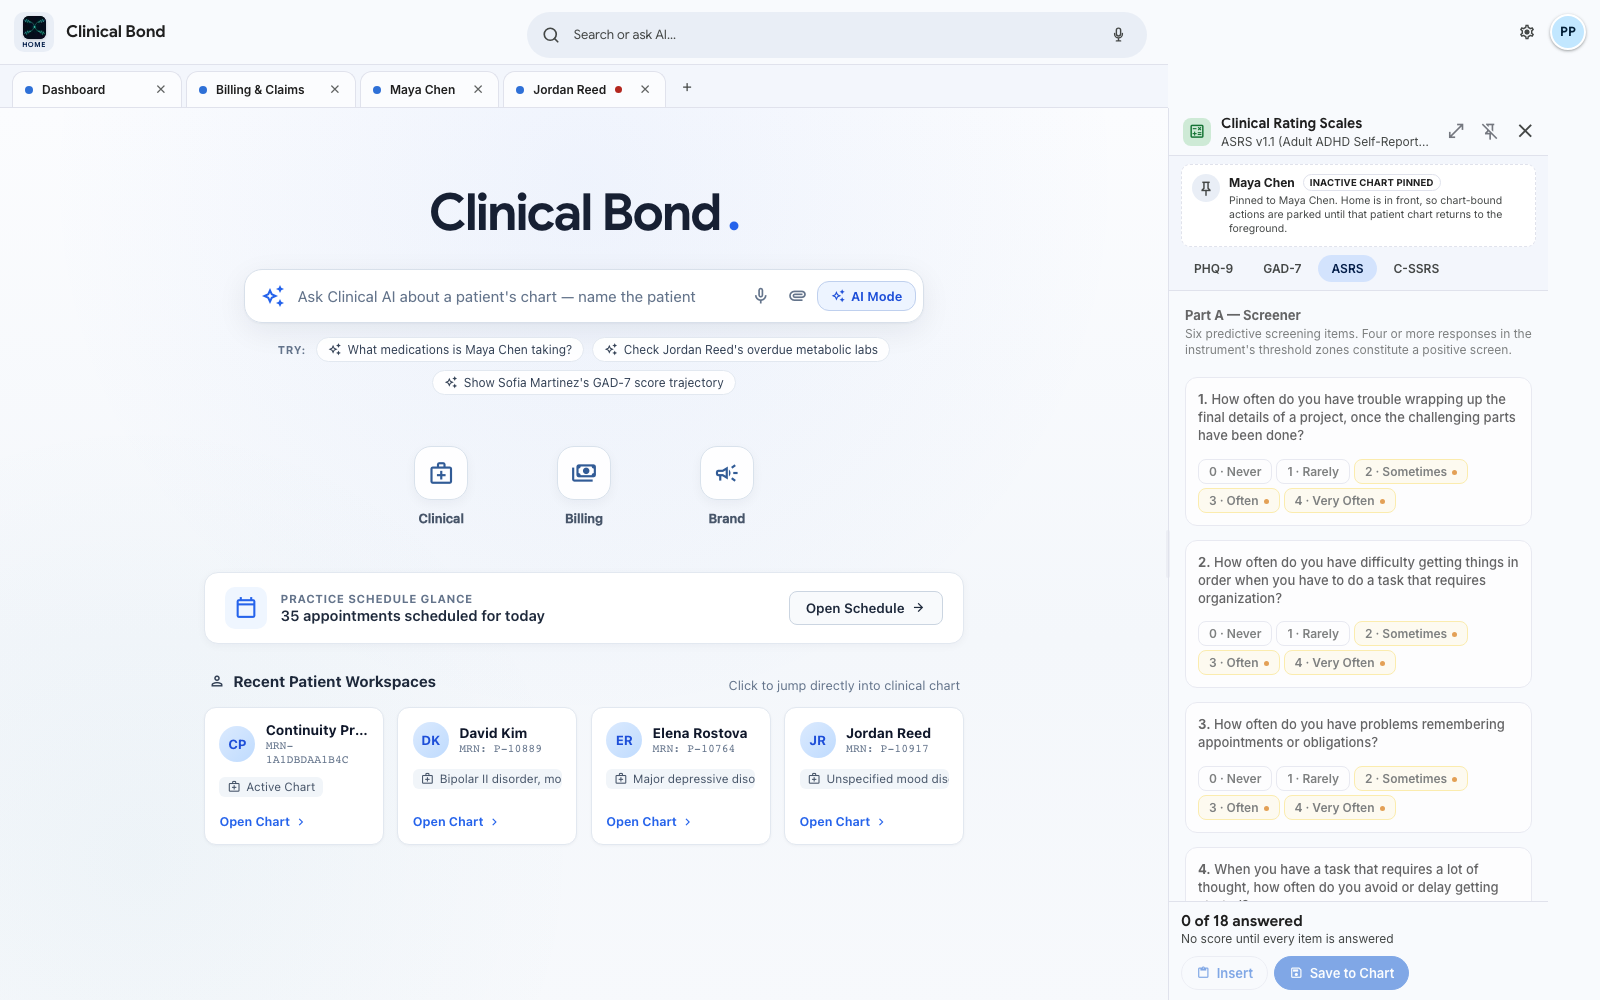
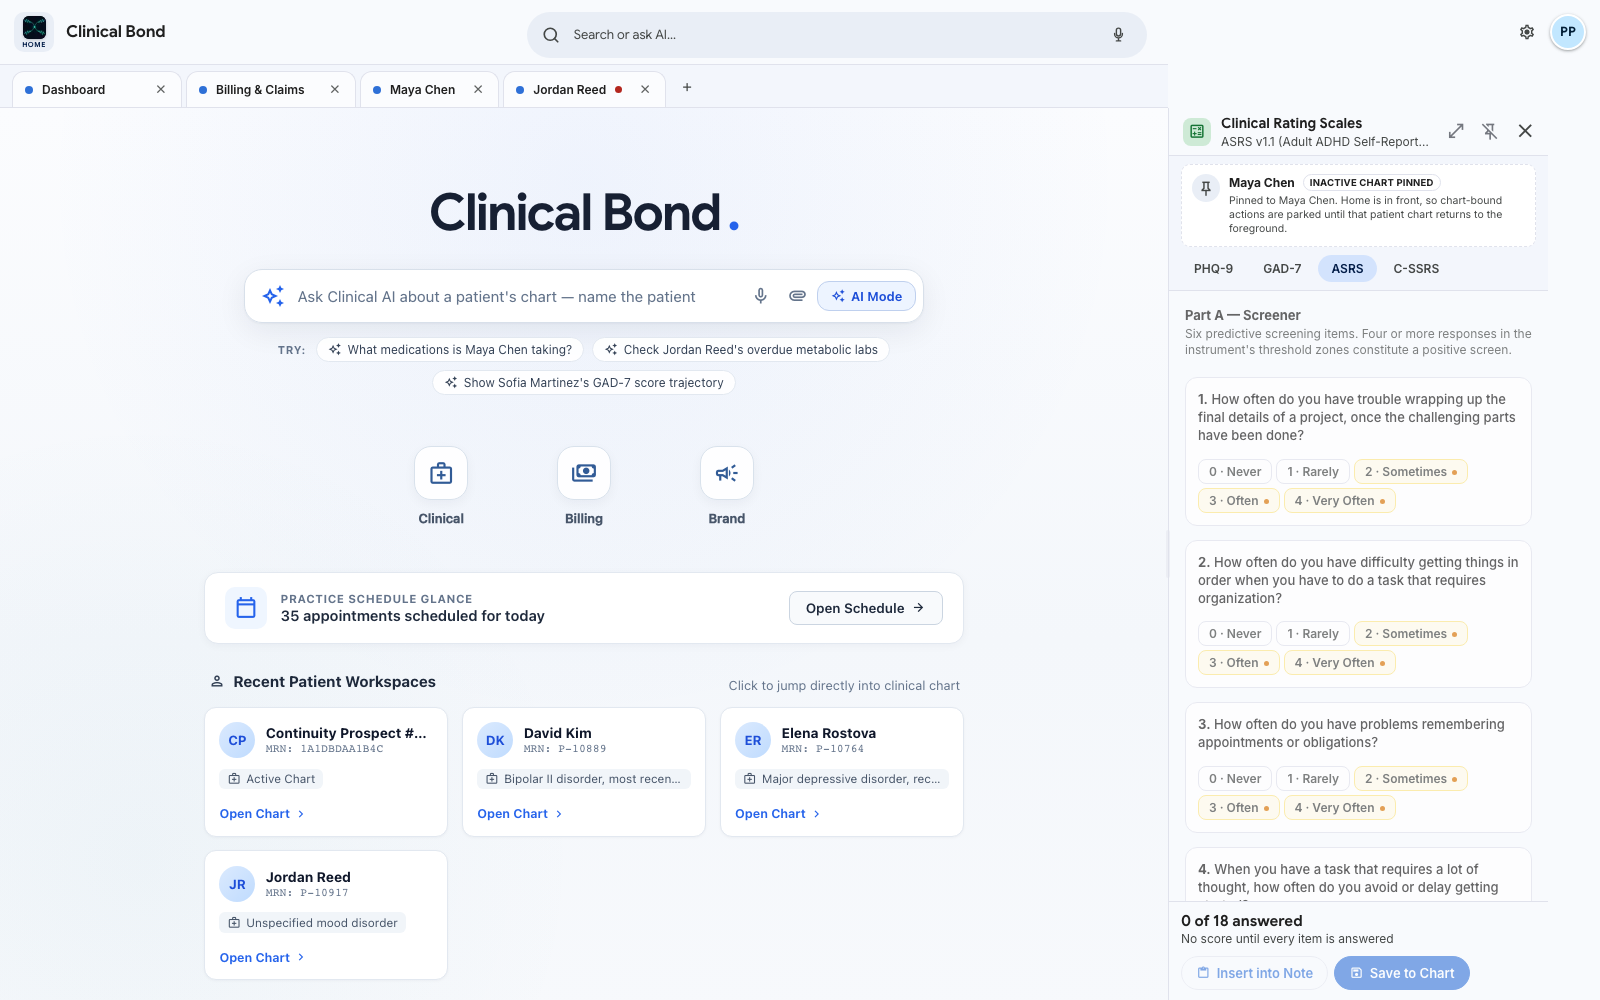
fix(workspace): correct UI text collisions, condition truncations, and workflow gaps
- Billing: Add separator dot and baseline alignment to Charges toolbar to fix 'ChargesPrepared' collision
- Zen Home: Normalize MRN format, add diagnosis text ellipsis handling, and expand card grid minmax
- Today Cockpit: Add 'Jump to next clinic day' quick-action button when viewing dates without visits
- Intake: Add 'Clear filters' button on empty search/filter states and clean display of test IDs
- Rating Scales: Add semantic severity tier badges (positive, moderate, minimal) and 'Insert into Note' label
- Calendar: Harmonize event chip background tints with category tag colors (telehealth lavender, in-person green)
- Patient Documents: Add responsive flex-wrapping to SHA-256 integrity badge bar
- Note Editor: Clarify MSE normal fill button tooltip regarding preservation of custom observations

Changed region(s): [[0.125, 0.713, 0.5938, 0.837], [0.7812, 0.93, 0.9375, 0.992], [0.125, 0.868, 0.25, 0.961]]

diff --git a/app/components/TodayDashboard.tsx b/app/components/TodayDashboard.tsx
@@ -771,6 +771,16 @@ export default function TodayDashboard({
     return list;
   }, [schedule, currentDate, selectedProviderId]);
 
+  // Find nearest future clinic day if current date has no appointments
+  const nextActiveClinicDay = useMemo(() => {
+    if (daySchedule.length > 0) return null;
+    const futureDays = schedule
+      .filter((s) => s.date > currentDate)
+      .map((s) => s.date)
+      .sort((a, b) => a.localeCompare(b));
+    return futureDays[0] || null;
+  }, [schedule, currentDate, daySchedule.length]);
+
   // Dynamic status groupings for the active date
   const waitingPatients = useMemo(() => daySchedule.filter((s) => s.status === "waiting"), [daySchedule]);
   const inVisitPatients = useMemo(() => daySchedule.filter((s) => s.status === "in-visit"), [daySchedule]);
@@ -1475,6 +1485,17 @@ export default function TodayDashboard({
                             daySchedule.length === 0
                               ? `No visits are booked for ${formatDateHeading(currentDate)}.`
                               : `No visits match this filter on ${formatDateHeading(currentDate)}.`
+                          }
+                          emptyAction={
+                            daySchedule.length === 0 && nextActiveClinicDay ? (
+                              <Button
+                                variant="secondary"
+                                size="sm"
+                                onClick={() => setCurrentDate(nextActiveClinicDay)}
+                              >
+                                Jump to next clinic day ({nextActiveClinicDay})
+                              </Button>
+                            ) : undefined
                           }
                           onRetry={() => void refreshSchedule()}
                         >

diff --git a/app/components/companion/CalculatorPanel.tsx b/app/components/companion/CalculatorPanel.tsx
@@ -181,7 +181,19 @@ export default function CalculatorPanel({
                 <strong>
                   {totalScore} / {instrumentDef.maxScore}
                 </strong>
-                <span>{interpretation.severity}</span>
+                <span
+                  className={`calc-severity-badge ${
+                    interpretation.flags.length > 0 ||
+                    interpretation.severity.toLowerCase().includes("positive") ||
+                    interpretation.severity.toLowerCase().includes("severe")
+                      ? "is-positive"
+                      : interpretation.severity.toLowerCase().includes("moderate")
+                        ? "is-moderate"
+                        : "is-minimal"
+                  }`}
+                >
+                  {interpretation.severity}
+                </span>
               </>
             ) : (
               <>
@@ -198,9 +210,9 @@ export default function CalculatorPanel({
               className="companion-btn"
               onClick={() => onInsertToNote(interpretation.summary)}
               disabled={Boolean(blockedReason)}
-              title={blockedReason || "Insert completed assessment summary"}
+              title={blockedReason || "Insert completed assessment summary into clinical encounter note"}
             >
-              <Icon name="content_paste" size="sm" /> Insert
+              <Icon name="content_paste" size="sm" /> Insert into Note
             </button>
             {boundPatient && (
               <button

diff --git a/app/components/workspaces/IntakeWorkspace.tsx b/app/components/workspaces/IntakeWorkspace.tsx
@@ -306,6 +306,20 @@ export default function IntakeWorkspace() {
           hasLoadedOnce={hasLoadedOnce}
           loadingMessage="Loading intake queue…"
           emptyMessage={rows.length === 0 ? "No one is currently in intake." : "No intake matches this filter."}
+          emptyAction={
+            rows.length > 0 && (stageFilter !== "all" || query.trim() !== "") ? (
+              <Button
+                variant="secondary"
+                size="sm"
+                onClick={() => {
+                  setStageFilter("all");
+                  setQuery("");
+                }}
+              >
+                Clear filters
+              </Button>
+            ) : undefined
+          }
           onRetry={() => void load()}
         >
           <ul className="intake-card-list">
@@ -602,7 +616,7 @@ function IntakeCard({
                 onKeyDown={(e) => e.stopPropagation()}
                 title="Open chart in a window"
               >
-                {row.patientName}
+                {row.patientName.replace(/([A-Za-z]+)(\d{6,})$/, "$1 #$2").replace(/\s+(\d{6,})$/, " #$1")}
               </button>
               {row.prospectivePersonId && !row.patientId ? <span className="iq-prospect-badge">Prospective</span> : null}
             </span>

diff --git a/app/components/workspaces/BillingWorkspace.tsx b/app/components/workspaces/BillingWorkspace.tsx
@@ -298,13 +298,13 @@ export default function BillingWorkspace() {
       <div className="billing-main-layout">
         <div className="billing-table-pane">
           <div className="billing-toolbar">
-            <div>
+            <div className="billing-toolbar-group">
               <strong>Charges</strong>
-              <span className="billing-unavailable-note">
-                {summary
-                  ? `Prepared from signed encounters. Counted over ${summary.periodLabel.toLowerCase()}, computed ${new Date(summary.computedAt).toLocaleString()}.`
-                  : ""}
-              </span>
+              {summary && (
+                <span className="billing-unavailable-note">
+                  {` · Prepared from signed encounters. Counted over ${summary.periodLabel.toLowerCase()}, computed ${new Date(summary.computedAt).toLocaleString()}.`}
+                </span>
+              )}
             </div>
             <Button size="sm" icon="refresh" onClick={() => void load()}>
               Refresh

diff --git a/app/zen-home.css b/app/zen-home.css
@@ -541,7 +541,7 @@ body:has(.view-zen-home) {
 
 .zen-patient-cards-grid {
   display: grid;
-  grid-template-columns: repeat(auto-fill, minmax(170px, 1fr));
+  grid-template-columns: repeat(auto-fill, minmax(200px, 1fr));
   gap: 0.85rem;
 }
 
@@ -614,6 +614,7 @@ body:has(.view-zen-home) {
 .zen-patient-card-body {
   display: flex;
   align-items: center;
+  min-width: 0;
 }
 
 .zen-patient-condition-chip {
@@ -626,9 +627,14 @@ body:has(.view-zen-home) {
   padding: 0.22rem 0.5rem;
   border-radius: 6px;
   max-width: 100%;
+  min-width: 0;
+}
+
+.zen-patient-condition-chip span {
   white-space: nowrap;
   overflow: hidden;
   text-overflow: ellipsis;
+  min-width: 0;
 }
 
 .zen-patient-card-footer {
@@ -1245,6 +1251,13 @@ body:has(.view-zen-home) [class*="launcher"]:focus-within {
   margin-bottom: 1rem;
   flex-wrap: wrap;
   gap: 0.75rem;
+}
+
+.billing-toolbar-group {
+  display: inline-flex;
+  align-items: baseline;
+  gap: 0.35rem;
+  flex-wrap: wrap;
 }
 
 .filter-pill-group {

diff --git a/app/components/home/ZenHomeWindow.tsx b/app/components/home/ZenHomeWindow.tsx
@@ -426,9 +426,11 @@ export default function ZenHomeWindow({
                       <div className="zen-patient-card-top">
                         <div className="zen-patient-avatar">{initials}</div>
                         <div className="zen-patient-meta">
-                          <span className="zen-patient-name">{patient.name}</span>
+                          <span className="zen-patient-name" title={patient.name}>
+                            {patient.name.replace(/\s+(\d{8,})$/, " #$1")}
+                          </span>
                           <span className="zen-patient-mrn">
-                            {patient.mrn?.startsWith("MRN-") ? patient.mrn : `MRN: ${patient.mrn}`}
+                            {patient.mrn ? `MRN: ${patient.mrn.replace(/^MRN[-:\s]*/i, "")}` : "No MRN"}
                           </span>
                         </div>
                       </div>

diff --git a/app/google-calendar.css b/app/google-calendar.css
@@ -1278,16 +1278,25 @@
 .gcal-event-chip.category-in-person {
   border-left-color: #16a34a;
   background-color: #f0fdf4;
+  border-top: 1px solid #dcfce7;
+  border-right: 1px solid #dcfce7;
+  border-bottom: 1px solid #dcfce7;
 }
 
 .gcal-event-chip.category-telehealth {
   border-left-color: #9333ea;
-  background-color: #faf5ff;
+  background-color: #f5f3ff;
+  border-top: 1px solid #ede9fe;
+  border-right: 1px solid #ede9fe;
+  border-bottom: 1px solid #ede9fe;
 }
 
 .gcal-event-chip.category-waiting {
   border-left-color: #ea580c;
   background-color: #fff7ed;
+  border-top: 1px solid #ffedd5;
+  border-right: 1px solid #ffedd5;
+  border-bottom: 1px solid #ffedd5;
 }
 
 /* Operational status is intentionally distinct from event type. */

diff --git a/app/companion-frame.css b/app/companion-frame.css
@@ -470,6 +470,34 @@
   color: var(--m3-text-secondary);
 }
 
+.calc-footer-score .calc-severity-badge {
+  display: inline-block;
+  padding: 2px 7px;
+  border-radius: 4px;
+  font-size: 11px;
+  font-weight: 650;
+  width: fit-content;
+  margin-top: 1px;
+}
+
+.calc-footer-score .calc-severity-badge.is-positive {
+  background: #fef2f2;
+  color: #991b1b;
+  border: 1px solid #fecaca;
+}
+
+.calc-footer-score .calc-severity-badge.is-moderate {
+  background: #fffbeb;
+  color: #92400e;
+  border: 1px solid #fde68a;
+}
+
+.calc-footer-score .calc-severity-badge.is-minimal {
+  background: #f0fdf4;
+  color: #166534;
+  border: 1px solid #bbf7d0;
+}
+
 .calc-footer-actions {
   display: flex;
   gap: 6px;

diff --git a/app/components/encounter/EncounterNoteDocument.tsx b/app/components/encounter/EncounterNoteDocument.tsx
@@ -203,7 +203,7 @@ export default function EncounterNoteDocument({
               type="button"
               className="note-doc-picker-trigger"
               onClick={() => onUpdateDraft((previous) => ({ ...previous, mse: fillBlankMseWithNormal(previous.mse) }))}
-              title="Inserts standard normal findings into the blank rows only. Edit anything you did not observe."
+              title="Inserts standard normal findings into blank dimensions only. Your existing observations are preserved."
             >
               {blankMseCount === Object.keys(draft.mse).length ? "Insert normal exam" : `Fill ${blankMseCount} blank as normal`}
             </button>

diff --git a/app/patient-documents.css b/app/patient-documents.css
@@ -108,6 +108,8 @@
   display: flex;
   align-items: center;
   justify-content: space-between;
+  flex-wrap: wrap;
+  gap: 8px;
   padding: 10px 14px;
   background: var(--m3-surface-container-high);
   border-bottom: 1px solid var(--m3-border);
